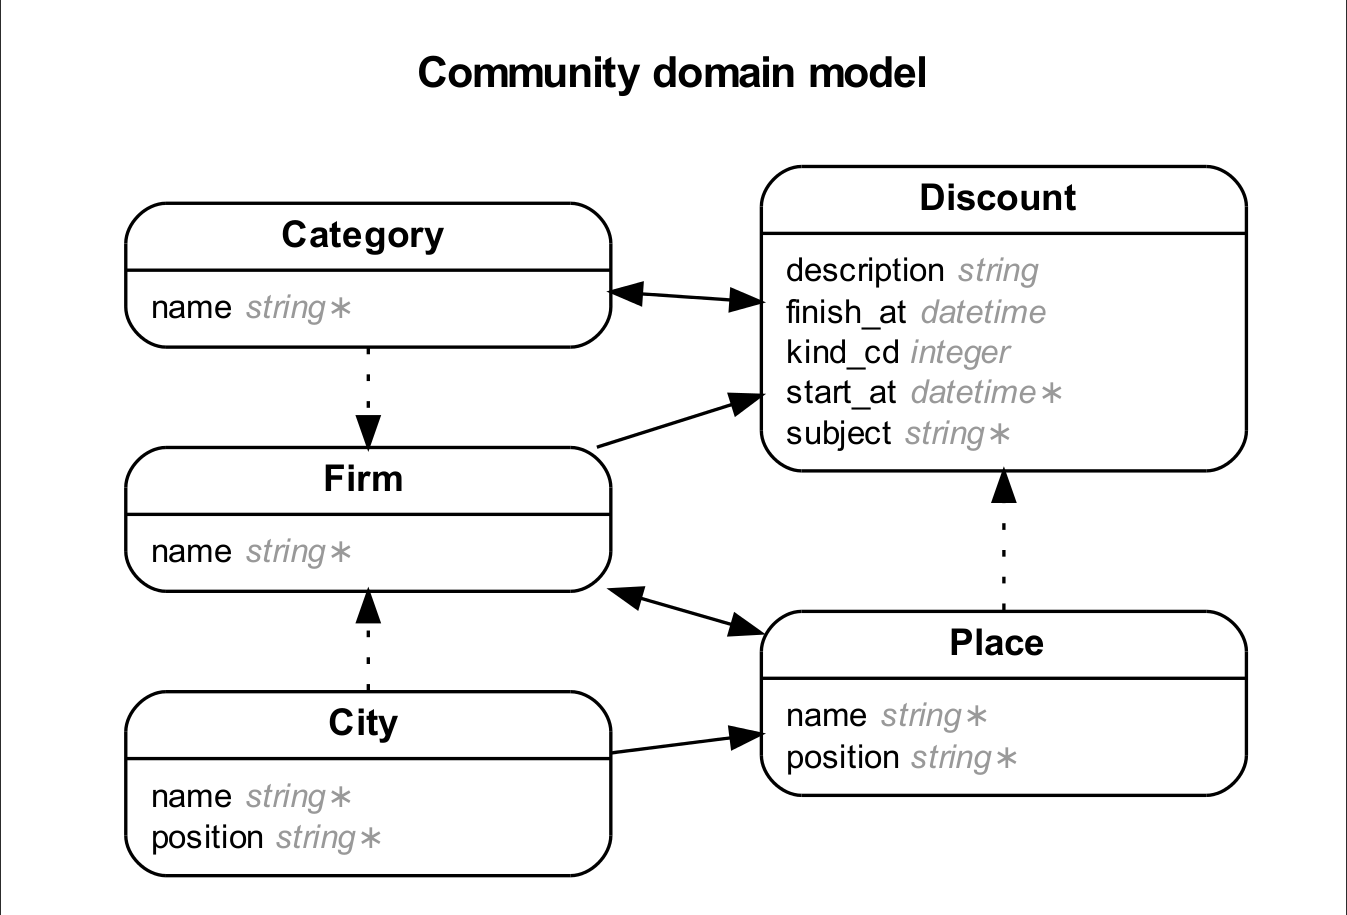
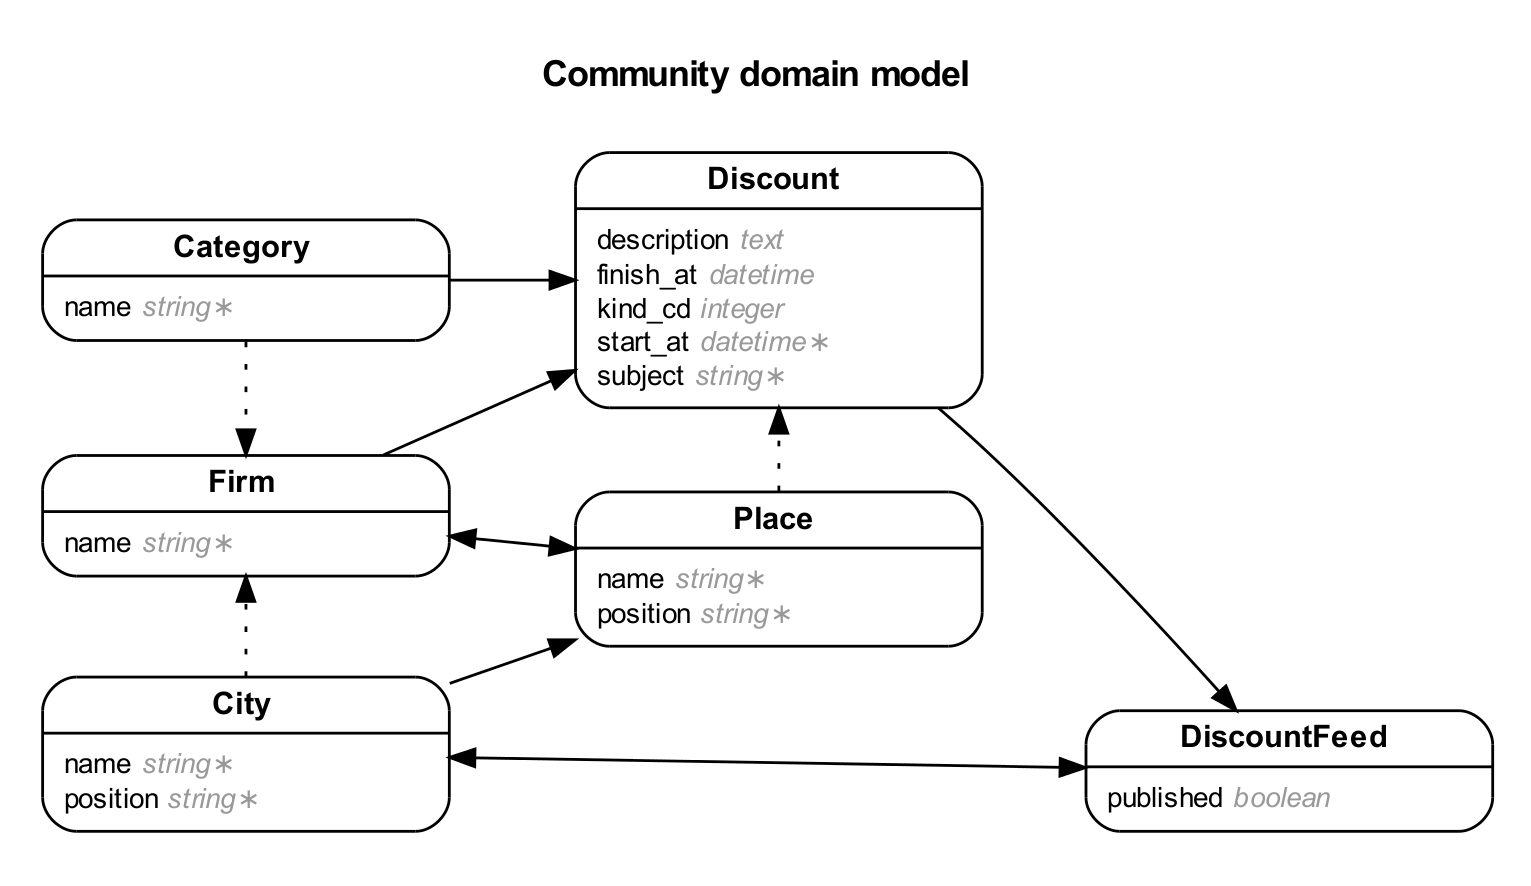
discounts feed

diff --git a/app/assets/stylesheets/application.css.sass b/app/assets/stylesheets/application.css.sass
@@ -35,3 +35,13 @@ body
   position: relative
   display: block
   height: 100%
+
+.discount-feed
+  position: absolute
+  display: block
+  width: 200px
+  height: 100%
+  right: 0
+  top: 0
+  padding-top: $navbar-height
+  background: #fff

diff --git a/db/schema.rb b/db/schema.rb
@@ -11,7 +11,7 @@
 #
 # It's strongly recommended that you check this file into your version control system.
 
-ActiveRecord::Schema.define(version: 20140207083938) do
+ActiveRecord::Schema.define(version: 20140207112000) do
 
   # These are extensions that must be enabled in order to support this database
   enable_extension "plpgsql"
@@ -70,6 +70,20 @@ ActiveRecord::Schema.define(version: 20140207083938) do
   end
 
   add_index "cities", ["name"], name: "index_cities_on_name", unique: true, using: :btree
+
+  create_table "cities_discount_feeds", id: false, force: true do |t|
+    t.integer "city_id",          null: false
+    t.integer "discount_feed_id", null: false
+  end
+
+  create_table "discount_feeds", force: true do |t|
+    t.integer  "discount_id"
+    t.boolean  "published"
+    t.datetime "created_at"
+    t.datetime "updated_at"
+  end
+
+  add_index "discount_feeds", ["discount_id"], name: "index_discount_feeds_on_discount_id", using: :btree
 
   create_table "discounts", force: true do |t|
     t.string   "subject"

diff --git a/app/admin/discount.rb b/app/admin/discount.rb
@@ -13,17 +13,10 @@ ActiveAdmin.register Discount do
     f.actions
   end
 
-  # See permitted parameters documentation:
-  # https://github.com/gregbell/active_admin/blob/master/docs/2-resource-customization.md#setting-up-strong-parameters
-  #
-  permit_params :subject, :description, :start_at, :finish_at, :kind, :firm, category_ids: []
-  #
-  # or
-  #
-  # permit_params do
-  #  permitted = [:permitted, :attributes]
-  #  permitted << :other if resource.something?
-  #  permitted
-  # end
+  controller do
+    def permitted_params
+      params.permit!
+    end
+  end
 
 end

diff --git a/spec/helpers/discounts_helper_spec.rb b/spec/helpers/discounts_helper_spec.rb
@@ -1,0 +1,15 @@
+require 'spec_helper'
+
+# Specs in this file have access to a helper object that includes
+# the DiscountsHelper. For example:
+#
+# describe DiscountsHelper do
+#   describe "string concat" do
+#     it "concats two strings with spaces" do
+#       expect(helper.concat_strings("this","that")).to eq("this that")
+#     end
+#   end
+# end
+describe DiscountsHelper do
+  pending "add some examples to (or delete) #{__FILE__}"
+end

diff --git a/app/observers/discount_observer.rb b/app/observers/discount_observer.rb
@@ -1,0 +1,13 @@
+class DiscountObserver < ActiveRecord::Observer
+  def after_create(discount)
+    DiscountFeed.create discount: discount, cities: discount.firm.places.map{ |x| x.city }.uniq, published: true
+  end
+
+  def after_update(discount)
+    feed_item = DiscountFeed.where(discount: discount).first
+    if feed_item.present?
+      feed_item.cities = discount.firm.places.map{ |x| x.city }.uniq
+      feed_item.save
+    end
+  end
+end

diff --git a/config/application.rb b/config/application.rb
@@ -24,6 +24,8 @@ module Community
     # config.i18n.load_path += Dir[Rails.root.join('my', 'locales', '*.{rb,yml}').to_s]
     I18n.locale = config.i18n.default_locale = :ru
 
+    config.active_record.observers = :discount_observer
+
     config.assets.paths << Rails.root.join('vendor', 'assets', 'components')
     config.assets.paths << Rails.root.join('app', 'assets', 'fonts')
   end

diff --git a/app/admin/discount_feed.rb b/app/admin/discount_feed.rb
@@ -1,0 +1,18 @@
+ActiveAdmin.register DiscountFeed do
+
+   form do |f|
+    f.inputs do
+      f.input :published
+      f.input :discount
+      f.input :cities
+    end
+    f.actions
+  end
+
+  controller do
+    def permitted_params
+      params.permit!
+    end
+  end
+
+end

diff --git a/db/migrate/20140207112000_create_city_discount_feed_join_table.rb b/db/migrate/20140207112000_create_city_discount_feed_join_table.rb
@@ -1,0 +1,8 @@
+class CreateCityDiscountFeedJoinTable < ActiveRecord::Migration
+  def change
+    create_join_table :cities, :discount_feeds do |t|
+      # t.index [:city_id, :discount_feed_id]
+      # t.index [:discount_feed_id, :city_id]
+    end
+  end
+end

diff --git a/app/models/city.rb b/app/models/city.rb
@@ -1,6 +1,7 @@
 class City < ActiveRecord::Base
   has_many :places, :dependent => :destroy
   has_many :firms, :through => :places
+  has_and_belongs_to_many :discount_feeds
 
   validates :name, :position, presence: true, uniqueness: true
 end

diff --git a/db/migrate/20140207091632_create_discount_feeds.rb b/db/migrate/20140207091632_create_discount_feeds.rb
@@ -1,0 +1,10 @@
+class CreateDiscountFeeds < ActiveRecord::Migration
+  def change
+    create_table :discount_feeds do |t|
+      t.references :discount, index: true
+      t.boolean :published
+
+      t.timestamps
+    end
+  end
+end

diff --git a/app/models/discount_feed.rb b/app/models/discount_feed.rb
@@ -1,0 +1,6 @@
+class DiscountFeed < ActiveRecord::Base
+  belongs_to :discount
+  has_and_belongs_to_many :cities
+
+  scope :by_city, ->(city) { joins(:cities).where(:cities => { :id => city.id }, published: true) }
+end

diff --git a/config/routes.rb b/config/routes.rb
@@ -7,6 +7,7 @@ Community::Application.routes.draw do
 
   root 'welcome#index'
   resources :cities, :controller => :welcome, :action => :index
+  resources :discounts, :only => :show
 
 
   # Example of regular route:
